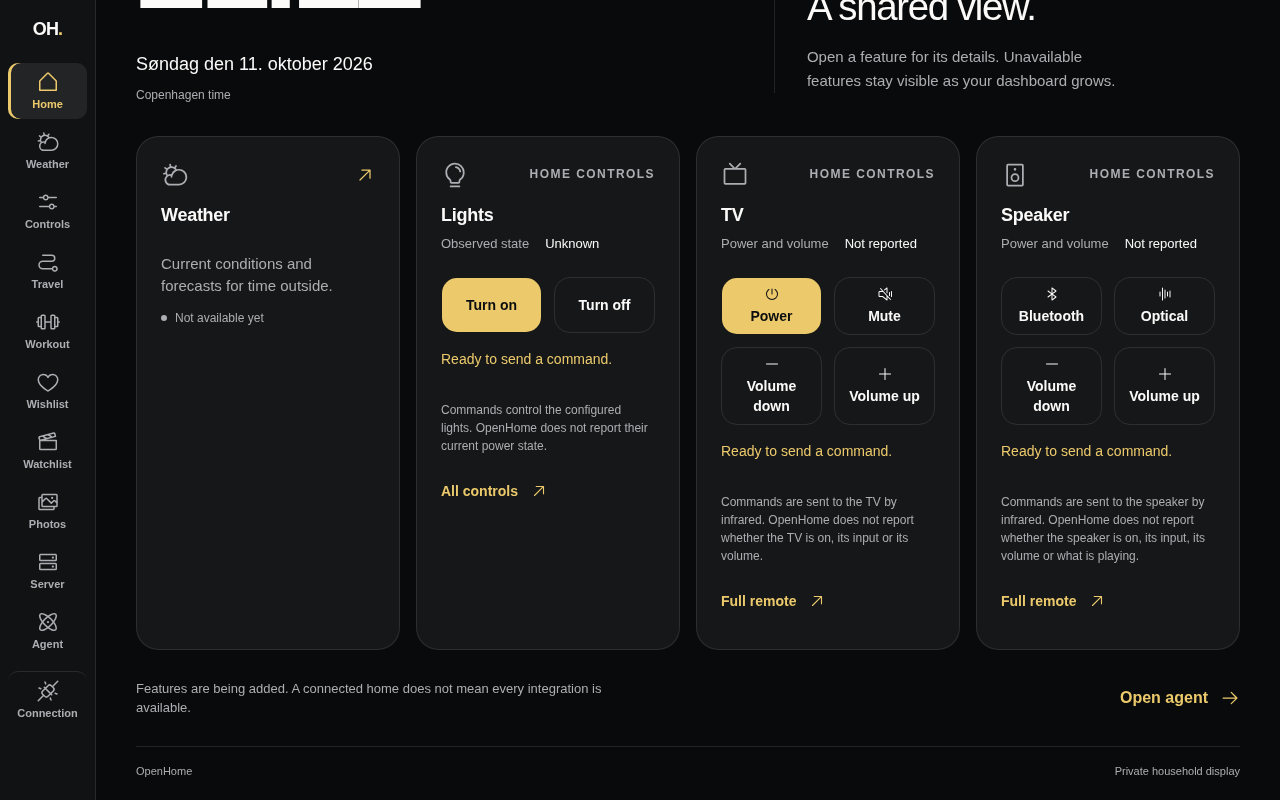
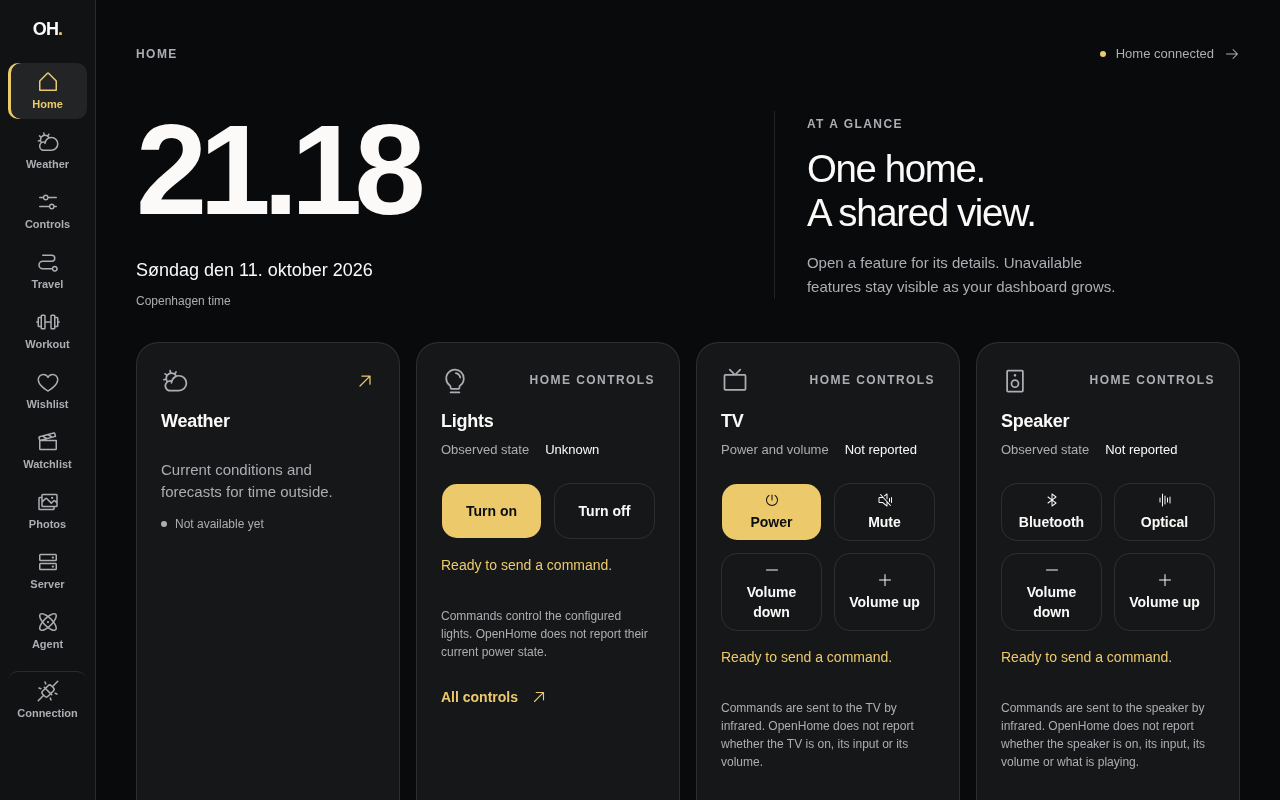
fix(dashboard): label all unreported speaker state and share remote fallbacks
- Show "Observed state: Not reported" on the speaker so an accepted input
  command never reads as a confirmed input.
- Move the shared unavailable-remotes outcome and its type into ir.ts so the
  server and loader fallback build it once.
- Make each remote's filled button a config field rather than a hard-coded
  command name.
- Recapture synthetic evidence with the new label.

Refs: #94

diff --git a/dashboard/src/lib/ir.server.ts b/dashboard/src/lib/ir.server.ts
@@ -1,6 +1,6 @@
 import "@tanstack/react-start/server-only"
 import { z } from "zod"
-import type { IrCommandResult, IrRemoteState } from "./ir"
+import { type IrCommandResult, type IrRemotes, unavailableRemotes } from "./ir"
 import {
   isAcknowledged,
   readErrorMessage,
@@ -21,12 +21,6 @@ const remotes = z.object({
     edifier: z.array(z.string()),
   }),
 })
-
-/** Both IR Remotes come from one discovery, so they always share its outcome. */
-export type IrRemotes = {
-  tv: IrRemoteState<TvCommand>
-  speaker: IrRemoteState<SpeakerCommand>
-}
 
 /** Classify an unsuccessful Axum response; only exact known errors earn specific guidance. */
 async function classifyFailure(
@@ -56,15 +50,6 @@ function withButtons<C extends string>(
   return options.filter((command) => names.has(command))
 }
 
-function unavailable(
-  reason: Extract<IrRemoteState<string>, { state: "unavailable" }>["reason"]
-): IrRemotes {
-  return {
-    tv: { state: "unavailable", reason },
-    speaker: { state: "unavailable", reason },
-  }
-}
-
 /** Ask Axum which Commands each IR Remote reports, keeping only those with Remote Buttons. */
 export async function readIrRemotes(): Promise<IrRemotes> {
   const result = await requestOpenHome({
@@ -73,7 +58,7 @@ export async function readIrRemotes(): Promise<IrRemotes> {
     timeoutMs: discoveryTimeoutMs,
   })
 
-  if (result.state !== "received") return unavailable(result.state)
+  if (result.state !== "received") return unavailableRemotes(result.state)
 
   const { response } = result
 
@@ -99,13 +84,15 @@ export async function readIrRemotes(): Promise<IrRemotes> {
       // An unreadable response cannot establish which commands are available.
     }
 
-    return unavailable("unavailable")
+    return unavailableRemotes("unavailable")
   }
 
   const reason = await classifyFailure(response)
 
   // A stale-command answer cannot apply to discovery.
-  return unavailable(reason === "unsupported-command" ? "unavailable" : reason)
+  return unavailableRemotes(
+    reason === "unsupported-command" ? "unavailable" : reason
+  )
 }
 
 /**

diff --git a/dashboard/src/lib/ir.ts b/dashboard/src/lib/ir.ts
@@ -1,4 +1,6 @@
 import type { ConnectionState } from "./connection"
+import type { SpeakerCommand } from "./speaker"
+import type { TvCommand } from "./tv"
 
 /** Sanitized reasons OpenHome could not report or confirm an IR Remote's Commands. */
 export type IrFailure =
@@ -18,3 +20,24 @@ export type IrRemoteState<C extends string> =
 export type IrCommandResult =
   | { state: "accepted" }
   | { state: "failed"; reason: IrFailure }
+
+/** Both IR Remotes come from one discovery, so they always share its outcome. */
+export type IrRemotes = {
+  tv: IrRemoteState<TvCommand>
+  speaker: IrRemoteState<SpeakerCommand>
+}
+
+/**
+ * Give every IR Remote the same discovery failure; one request discovers them all.
+ *
+ * @param reason - Why OpenHome could not report the remotes' Commands.
+ * @returns An unavailable state for each remote.
+ */
+export function unavailableRemotes(
+  reason: Extract<IrRemoteState<string>, { state: "unavailable" }>["reason"]
+): IrRemotes {
+  return {
+    tv: { state: "unavailable", reason },
+    speaker: { state: "unavailable", reason },
+  }
+}

diff --git a/dashboard/src/components/speaker-remote.tsx b/dashboard/src/components/speaker-remote.tsx
@@ -18,6 +18,7 @@ const speakerRemote: IrRemoteConfig<SpeakerCommand> = {
   title: "Speaker",
   remoteName: "Edifier speaker remote",
   icon: SpeakerHifiIcon,
+  primary: "power",
   labels: speakerCommandLabels,
   commandIcons: {
     power: PowerIcon,
@@ -48,7 +49,8 @@ const speakerRemote: IrRemoteConfig<SpeakerCommand> = {
       commands: ["volume-down", "mute", "volume-up"],
     },
   ],
-  unobserved: "Power and volume",
+  // Input matters most for the speaker, so the label covers every unreported state.
+  unobserved: "Observed state",
   explanation:
     "Commands are sent to the speaker by infrared. OpenHome does not report whether the speaker is on, its input, its volume or what is playing.",
 }

diff --git a/dashboard/src/components/ir-remote.tsx b/dashboard/src/components/ir-remote.tsx
@@ -32,6 +32,8 @@ export type IrRemoteConfig<C extends string> = {
   /** Names the remote on the focused Controls view. */
   remoteName: string
   icon: Icon
+  /** The Command given the filled button style. */
+  primary: C
   labels: Record<C, string>
   commandIcons: Partial<Record<C, Icon>>
   quickGroups: CommandGroup<C>[]
@@ -306,7 +308,7 @@ function RemoteButton<C extends string>({
   return (
     <Button
       size="lg"
-      variant={command === "power" ? "default" : "outline"}
+      variant={command === config.primary ? "default" : "outline"}
       disabled={disabled}
       data-command={command}
       onClick={() => onPress(command)}

diff --git a/dashboard/src/lib/ir.functions.ts b/dashboard/src/lib/ir.functions.ts
@@ -1,6 +1,6 @@
 import { createServerFn } from "@tanstack/react-start"
 import { setResponseHeader } from "@tanstack/react-start/server"
-import type { IrRemotes } from "./ir.server"
+import { type IrRemotes, unavailableRemotes } from "./ir"
 import { speakerCommand } from "./speaker"
 import { tvCommand } from "./tv"
 
@@ -43,8 +43,6 @@ export async function loadIrRemotes(): Promise<IrRemotes> {
   try {
     return await getIrRemotes()
   } catch {
-    const unreachable = { state: "unavailable", reason: "unreachable" } as const
-
-    return { tv: unreachable, speaker: unreachable }
+    return unavailableRemotes("unreachable")
   }
 }

diff --git a/dashboard/tests/ir-remote.test.ts b/dashboard/tests/ir-remote.test.ts
@@ -394,7 +394,7 @@ test("sends one speaker command for a burst of taps and never claims power, inpu
 
   await speaker.resolve({ state: "accepted" })
   expect(status()).toBe("Optical command accepted by OpenHome.")
-  expect(container.textContent).toContain("Power and volume Not reported")
+  expect(container.textContent).toContain("Observed state Not reported")
   expect(container.textContent).toContain(
     "does not report whether the speaker is on, its input, its volume or what is playing"
   )

diff --git a/dashboard/src/components/tv-remote.tsx b/dashboard/src/components/tv-remote.tsx
@@ -20,6 +20,7 @@ const tvRemote: IrRemoteConfig<TvCommand> = {
   title: "TV",
   remoteName: "LG TV remote",
   icon: TelevisionSimpleIcon,
+  primary: "power",
   labels: tvCommandLabels,
   commandIcons: {
     power: PowerIcon,

diff --git a/dashboard/docs/speaker/README.md b/dashboard/docs/speaker/README.md
@@ -5,8 +5,8 @@ Volume down and Volume up). The focused Controls view (`/controls`) offers every
 reported speaker command in two rows: Power and input, then Volume. The TV and
 speaker share one discovery at `GET /api/ir`; speaker commands are sent through
 the private TanStack server to `POST /api/ir/edifier`. A command acknowledgement
-stays separate from **Power and volume: Not reported**. The card also explains
-that OpenHome does not report the speaker's input or playback.
+stays separate from **Observed state: Not reported**, which covers the
+speaker's power, input, volume and playback.
 
 The TV and speaker now render through one shared Dashboard Remote component, so
 the speaker has the same pending guard, timeout, failure copy and **Check again**
@@ -70,8 +70,9 @@ dashboard over a USB tunnel. It was inspected through Safari Web Inspector
   horizontal overflow.
 - With a delayed response, three inspector-driven activations of **Volume up**
   produced one command. All speaker buttons were disabled during the pending
-  announcement. The accepted result then showed power and volume still
-  **Not reported**.
+  announcement. The accepted result then showed the device state still
+  **Not reported**. The capture predates renaming the speaker's state label
+  from "Power and volume" to "Observed state".
 - Safari's wider font broke **Bluetooth** mid-word in the original 2:3 Controls
   columns. The columns are now equal, and every speaker label fits on whole
   words on Controls and Home. At 200% root text size, no speaker or TV button
@@ -89,7 +90,8 @@ A local dashboard server then held the private connection. The Controls view
 discovered all six speaker commands from the real Axum API. One deliberately
 chosen **Volume down** command was sent from the browser, chosen because it is a
 single small step that toggles nothing. The card showed **Volume down command
-accepted by OpenHome.** and **Power and volume Not reported**. The server was
+accepted by OpenHome.** and **Power and volume Not reported** (since renamed
+**Observed state**). The server was
 stopped immediately afterwards.
 
 No live command was used as an automated fixture or public capture. The
